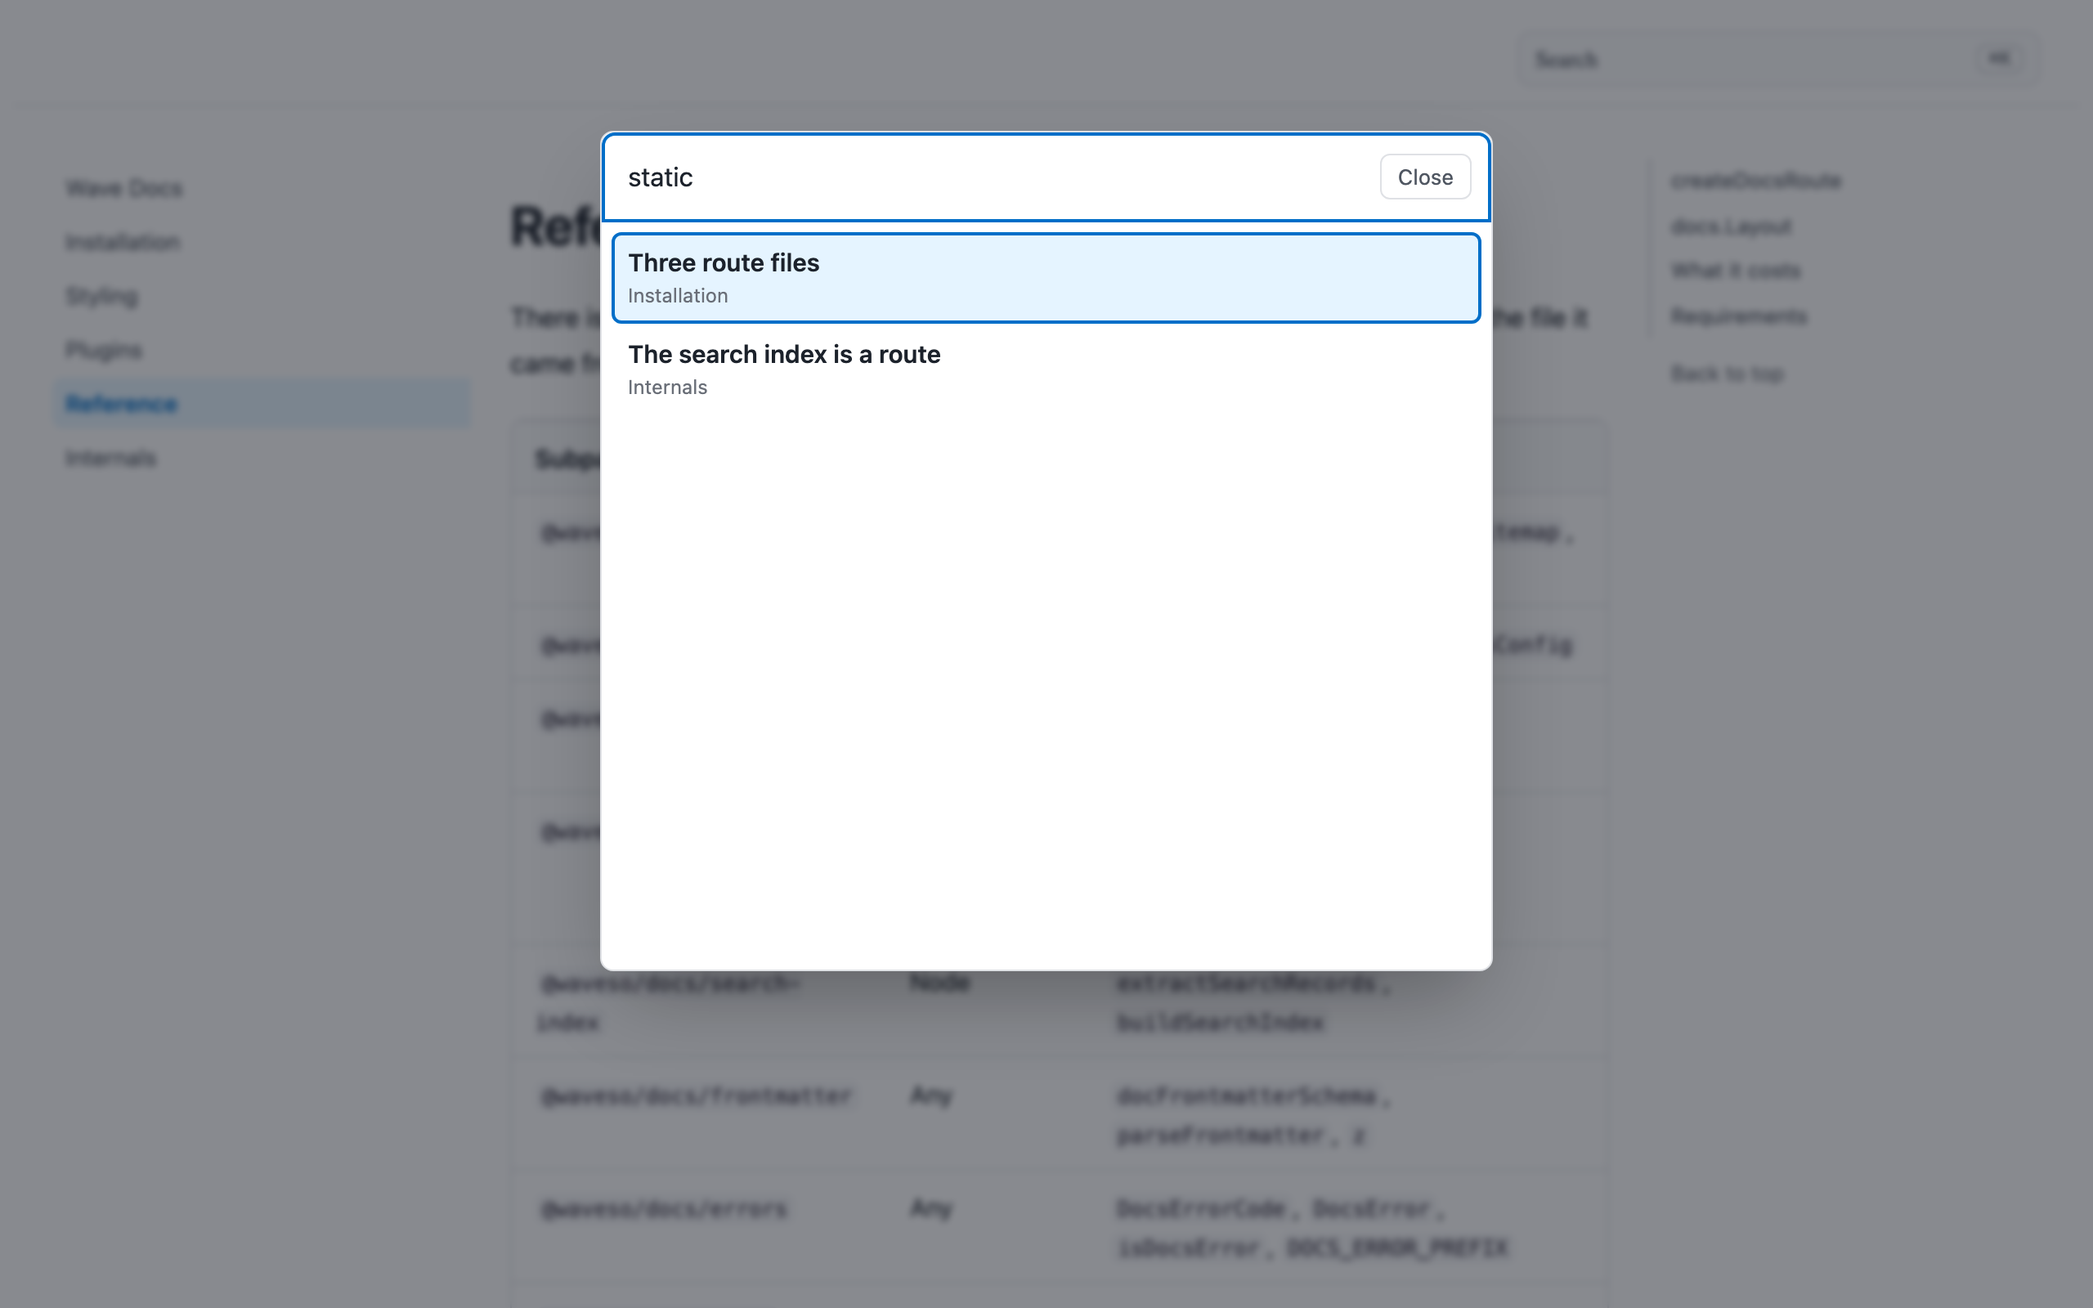
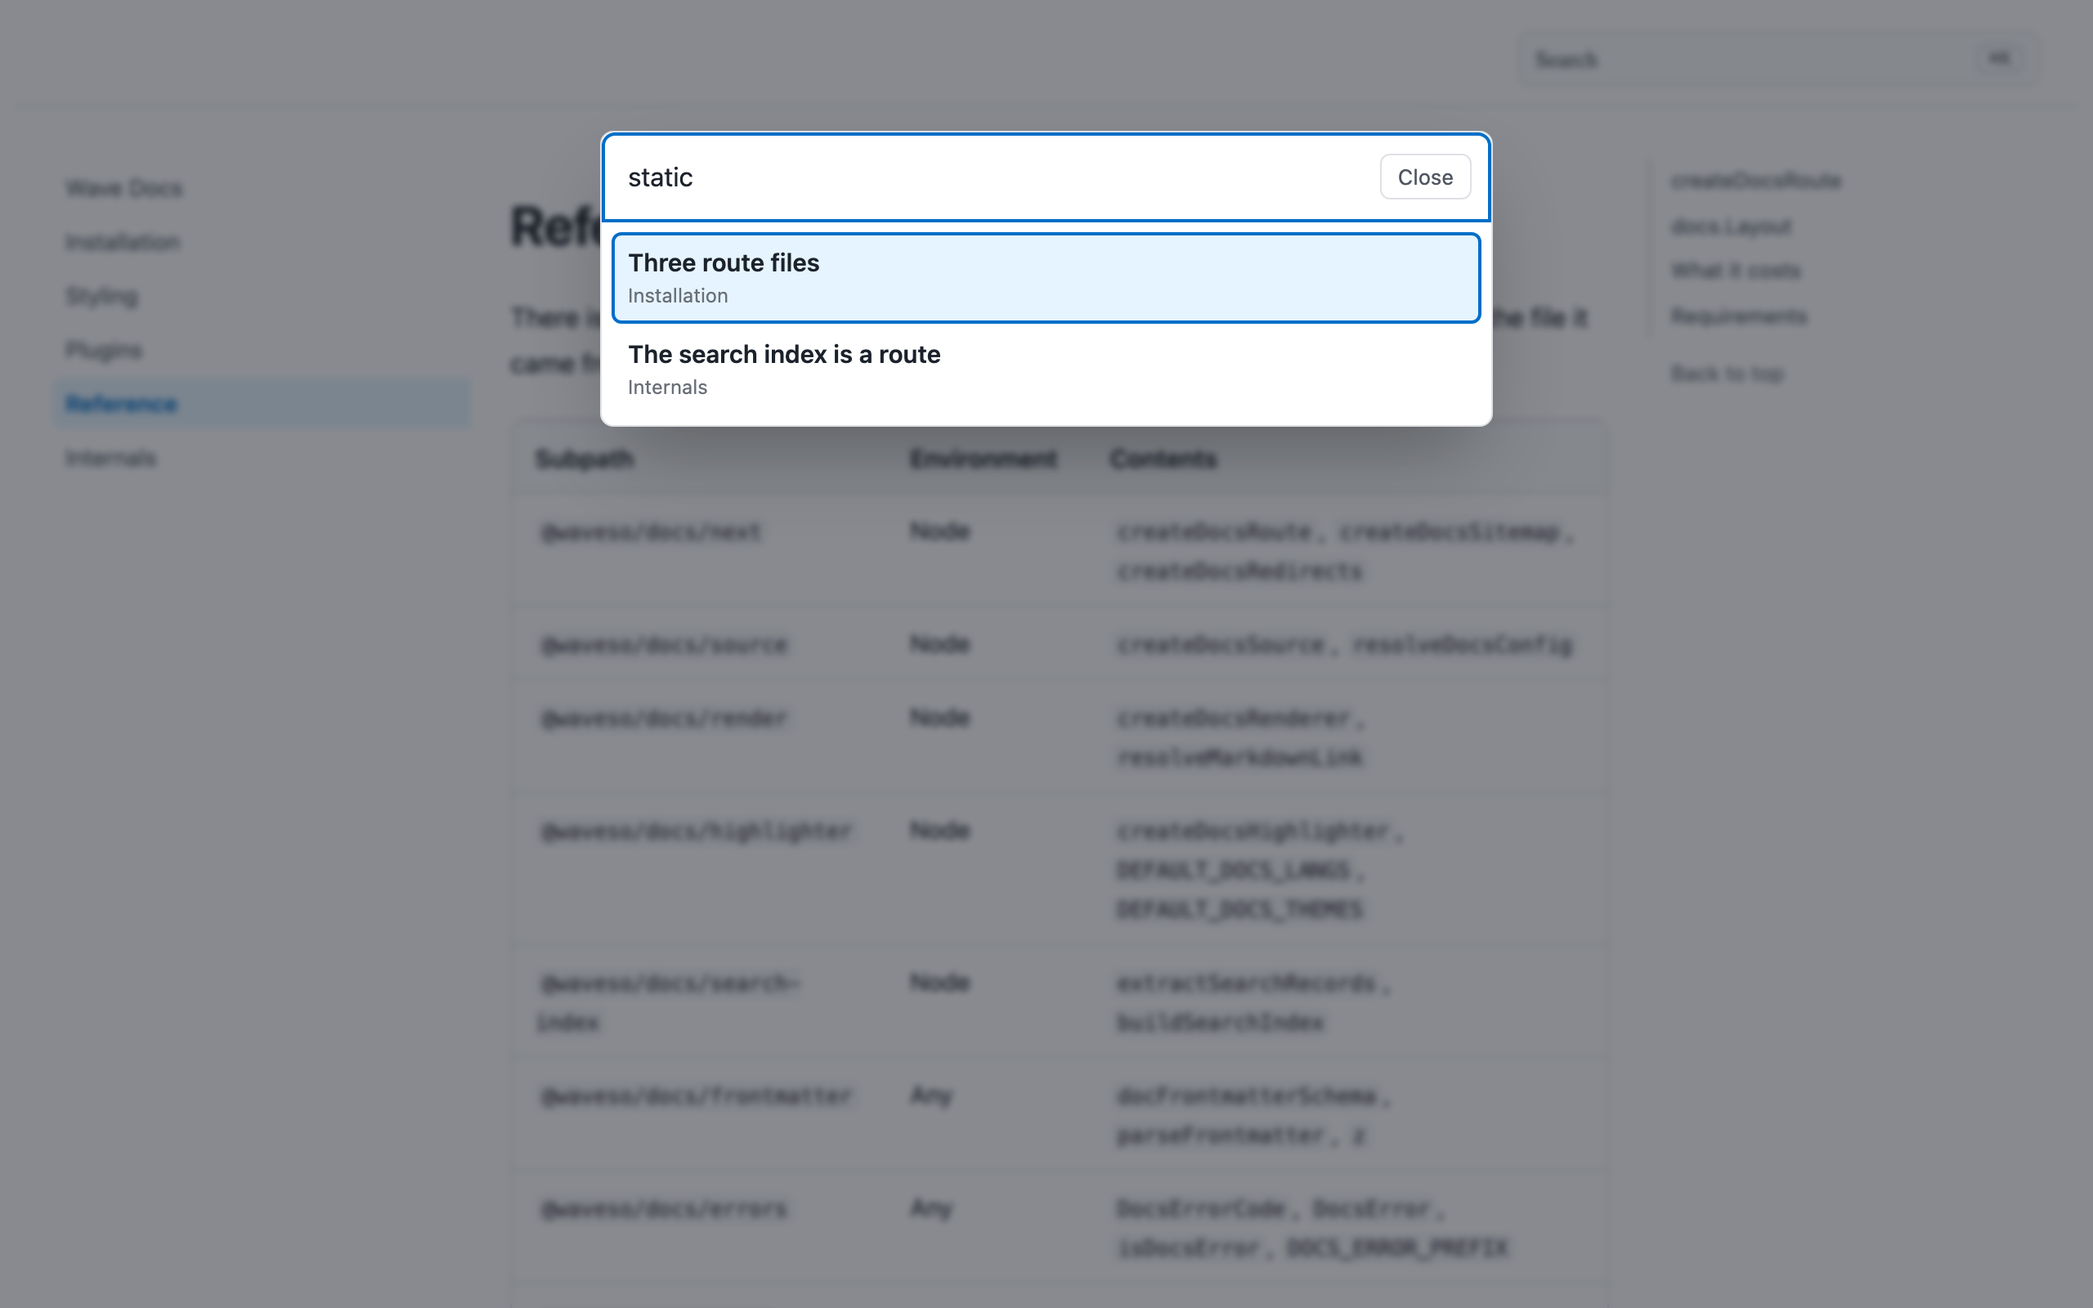
fix: the search dialog fits its results, and every row says where it lands
Both reported from looking at the real site.

**The dialog was 32rem tall in every state.** Measured: 514px with no
query, 514px with eight results, 514px with none — of which 392px was an
empty results area. The backdrop is a flex container and a flex container
defaults to `align-items: stretch`, so the dialog stretched to the
viewport and `max-height: min(32rem, 80dvh)` capped it at a constant
instead of being the ceiling it was written to be. `flex-start`, and it
is 122px empty, 125px with one hit, and 514px scrolling at the cap.

Invisible to everything: jsdom reports every box as zero, and
`styles.test.ts` reads the sheet as text — where `max-height` looks
exactly like a ceiling. The rule that broke it was the one not written
down.

**A page's own record had no second line.** Its heading IS the page
title with no ancestors, so a trail would repeat the line above it, and
the answer had been to render none. On a six-page site that is six of
twenty-nine records: the list came out ragged, and the barest rows said
the least — a row reading only "Wave Docs" tells a reader nothing about
what it opens. They carry the route now, which costs the index nothing
and is the one row where a path beats a title.

Writing the browser test also caught the test being wrong before the CSS
was: the first fixture put `role="option"` on the `<a>` rather than the
`<div>` around it, so forty rows sat inline and measured 243px, and the
[…]

Changed region(s): [[0.2812, 0.3125, 0.7188, 0.75]]

diff --git a/src/react/search.browser.test.tsx b/src/react/search.browser.test.tsx
@@ -1,0 +1,140 @@
+/**
+ * The search dialog's height, which is a claim only real layout can check.
+ *
+ * ⚠ IT WAS 514px IN EVERY STATE. `.wave-docs-search-backdrop` is a flex
+ * container, and a flex container defaults to `align-items: stretch` — so the
+ * dialog stretched to the full viewport and `max-height: min(32rem, 80dvh)`
+ * then capped it at a constant. Measured before the fix: 514px with no query,
+ * 514px with eight results, 514px with none, of which 392px was an empty
+ * results area. A reader opening search typed into a box floating at the top of
+ * a large blank rectangle.
+ *
+ * Nothing could see it. jsdom reports every box as zero, and `styles.test.ts`
+ * reads the sheet as text — where `max-height` looks exactly like the ceiling
+ * it was meant to be. The rule that broke it was the one that was not written
+ * down.
+ *
+ * The markup is written out rather than mounted through `SearchDialog`, which
+ * would need an index fetch and a router: the subject here is what the
+ * stylesheet does to a known shape, and the shape is frozen by
+ * `docs/adr/001-shell-contract.md`. `code.browser.test.tsx` does the same.
+ *
+ * Runs only under `pnpm test:browser`.
+ */
+
+import { page } from 'vitest/browser';
+import { beforeEach, describe, expect, it } from 'vitest';
+
+import styles from '../styles.css?inline';
+
+/**
+ * A result row, in the shape `SearchResultOption` actually emits.
+ *
+ * ⚠ THE `role="option"` IS ON THE `<div>`, AND THE `<a>` IS INSIDE IT. Written
+ * the other way round — an `<a role="option">` — the rows are inline, so forty
+ * of them wrap into a few lines and measure 243px instead of overflowing.
+ * That is how the first draft of this file "proved" the dialog never reached
+ * its ceiling: the fixture was wrong, not the stylesheet. Copied from the
+ * rendered DOM rather than from memory.
+ */
+function row(heading: string, crumb: string): string {
+  return `
+    <div class="wave-docs-search-result" role="option" aria-selected="false" tabindex="-1">
+      <a class="wave-docs-search-result-link" tabindex="-1" href="/docs/x">
+        <span class="wave-docs-search-result-heading">${heading}</span>
+        <span class="wave-docs-search-result-breadcrumb">
+          <span class="wave-docs-search-result-crumb">${crumb}</span>
+        </span>
+      </a>
+    </div>`;
+}
+
+/** The dialog, with `count` results and an optional status line. */
+function mount(count: number, status?: string): HTMLElement {
+  document.head.querySelector('#wave-docs-styles')?.remove();
+  const style = document.createElement('style');
+  style.id = 'wave-docs-styles';
+  style.textContent = styles;
+  document.head.append(style);
+
+  const rows = Array.from({ length: count }, (_, index) =>
+    row(`Result ${index}`, 'Installation'),
+  ).join('');
+
+  document.body.innerHTML = `
+    <div class="wave-docs-search-backdrop">
+      <div class="wave-docs-search-dialog" role="dialog" aria-modal="true">
+        <div class="wave-docs-search-input-row">
+          <input class="wave-docs-search-input" role="combobox" aria-expanded="true" />
+          <button type="button" class="wave-docs-search-close">Close</button>
+        </div>
+        <div class="wave-docs-search-results" role="listbox">${rows}</div>
+        ${status === undefined ? '' : `<p class="wave-docs-search-status">${status}</p>`}
+      </div>
+    </div>`;
+
+  const dialog = document.querySelector('.wave-docs-search-dialog');
+  if (!(dialog instanceof HTMLElement)) throw new Error('no dialog mounted');
+  return dialog;
+}
+
+const height = (element: HTMLElement): number =>
+  Math.round(element.getBoundingClientRect().height);
+
+beforeEach(async () => {
+  document.body.innerHTML = '';
+  await page.viewport(1280, 800);
+});
+
+describe('the search dialog sizes to its content', () => {
+  it('is little more than the input when there is nothing to show', () => {
+    const dialog = mount(0, 'Start typing to search the documentation.');
+
+    // A number, not "smaller than before": the failure mode was a *constant*,
+    // so the assertion has to be able to tell a constant from a measurement.
+    expect(height(dialog)).toBeLessThan(200);
+  });
+
+  it('grows with the results', () => {
+    // Like for like — all three without a status line. Comparing a
+    // results-only dialog against the empty state measures the status
+    // paragraph, not the growth, and the empty state is the taller of the two.
+    const one = height(mount(1));
+    const three = height(mount(3));
+    const six = height(mount(6));
+
+    expect(three).toBeGreaterThan(one);
+    expect(six).toBeGreaterThan(three);
+  });
+
+  it('stops growing at its ceiling, and scrolls from there', () => {
+    const dialog = mount(40);
+    const results = document.querySelector('.wave-docs-search-results');
+    if (!(results instanceof HTMLElement)) throw new Error('no results list');
+
+    // `min(32rem, 80dvh)` — 512px at this viewport, plus the 1px borders.
+    expect(height(dialog)).toBeLessThanOrEqual(514);
+    // And the overflow goes to the list rather than off the bottom of the box.
+    expect(results.scrollHeight).toBeGreaterThan(results.clientHeight);
+  });
+
+  it('keeps the empty-state message visible, not merely present', () => {
+    /*
+     * The risk in shrinking the dialog: collapsing it so far that "No results
+     * for …" ends up clipped by `overflow: hidden`. A message nobody can read
+     * is the same as no message, and this is the state a reader reaches by
+     * typing a typo — the moment they most need to be told what happened.
+     */
+    mount(0, 'No results for “zzzz”.');
+    const status = document.querySelector('.wave-docs-search-status');
+    if (!(status instanceof HTMLElement)) throw new Error('no status');
+
+    const box = status.getBoundingClientRect();
+    const dialogBox = (
+      document.querySelector('.wave-docs-search-dialog') as HTMLElement
+    ).getBoundingClientRect();
+
+    expect(box.height).toBeGreaterThan(0);
+    expect(box.bottom).toBeLessThanOrEqual(Math.ceil(dialogBox.bottom));
+  });
+});

diff --git a/src/react/search-dialog.test.tsx b/src/react/search-dialog.test.tsx
@@ -561,19 +561,53 @@ describe('SearchDialog', () => {
       expect(crumbs).toEqual(['Installation', '›Requirements']);
     });
 
-    it('gives a page’s lead hit no trail, which would only repeat it', async () => {
-      // `extractSearchRecords` emits one record per page whose heading *is* the
-      // page title, with no ancestors. Its trail is the string already printed
-      // above it: "Installation" over "Installation" reads as a rendering bug,
-      // and a screen reader announced the option twice over.
+    it('gives a page’s lead hit its route, not a repeat of its own title', async () => {
+      /*
+       * `extractSearchRecords` emits one record per page whose heading *is* the
+       * page title, with no ancestors. A trail built the ordinary way would be
+       * the string already printed above it — "Installation" over
+       * "Installation" reads as a rendering bug, and announced the option
+       * twice over.
+       *
+       * ⚠ THE ANSWER USED TO BE "NO TRAIL", AND THAT WAS ITS OWN DEFECT. Six
+       * of a six-page site's twenty-nine records are lead records, so a search
+       * showed a list where some rows had two lines and some had one — and the
+       * one-line rows were the ones saying least. A row reading only "Wave
+       * Docs" tells a reader nothing about what it opens.
+       *
+       * The route answers exactly that, costs the index nothing (`href` is
+       * stored already), and is the one row where a path beats a title: the
+       * reader is being offered the top of a page rather than a place inside
+       * one.
+       */
       const { user, trigger } = renderDialog();
       await search(user, trigger, 'install');
 
-      const lead = screen.getByRole('option', { name: 'Installation' });
-      expect(
-        lead.querySelectorAll('.wave-docs-search-result-crumb'),
-      ).toHaveLength(0);
-      expect(lead).toHaveTextContent(/^Installation$/);
+      const lead = screen.getByRole('option', {
+        name: 'Installation, /docs/guide/install',
+      });
+      const crumbs = [
+        ...lead.querySelectorAll('.wave-docs-search-result-crumb'),
+      ].map((crumb) => crumb.textContent);
+
+      expect(crumbs).toEqual(['/docs/guide/install']);
+    });
+
+    it('gives every row a second line, so the list is not ragged', async () => {
+      // The property behind the test above, stated as the invariant: whatever
+      // a row is, it says where it lives. A mixture of one- and two-line rows
+      // is what made the bare ones look broken rather than merely brief.
+      const { user, trigger } = renderDialog();
+      await search(user, trigger, 'install');
+
+      const options = screen.getAllByRole('option');
+      expect(options.length).toBeGreaterThan(1);
+
+      for (const option of options) {
+        expect(
+          option.querySelectorAll('.wave-docs-search-result-crumb').length,
+        ).toBeGreaterThan(0);
+      }
     });
 
     it('caps the list at maxResults', async () => {

diff --git a/src/react/search-dialog.tsx b/src/react/search-dialog.tsx
@@ -756,16 +756,34 @@ function isSearchHit(hit: SearchHit | undefined): hit is SearchHit {
 }
 
 /**
- * Page title first, then the ancestor headings: `ancestors` deliberately excludes
- * the page title so the index does not carry it twice.
+ * The second line of a result: where the thing on the first line lives.
+ *
+ * For a section hit that is the page, then any enclosing headings — `ancestors`
+ * deliberately excludes the page title so the index does not carry it twice.
+ *
+ * ## The page's own record
  *
  * A page's lead record carries `heading === title` and no ancestors (see
- * `extractSearchRecords`), so its trail would be the one string already printed
- * above it. "Installation" over "Installation" is not a path, it is a bug that
- * reads as a rendering glitch — such a hit gets no trail at all.
+ * `extractSearchRecords`), so a trail built the same way would repeat the one
+ * string already printed above it. "Installation" over "Installation" is not a
+ * path, it is a rendering glitch.
+ *
+ * ⚠ THE ANSWER TO THAT WAS "NO SECOND LINE", AND IT WAS WRONG. Six of this
+ * site's twenty-nine records are lead records, so a search showed a list where
+ * some rows had two lines and some had one — ragged, and worse, the bare rows
+ * were the ones that said least: a row reading only "Wave Docs" gives a reader
+ * no idea what it opens.
+ *
+ * So a lead record gets the route instead. It is the honest answer to the
+ * question the second line is asking, it costs the index nothing (`href` is
+ * already stored), and it is the one row where a path is genuinely more useful
+ * than a title — the reader is being offered the top of a page rather than a
+ * place inside one.
  */
 function toBreadcrumbs(hit: SearchHit): Array<{ key: string; text: string }> {
-  if (hit.ancestors.length === 0 && hit.heading === hit.title) return [];
+  if (hit.ancestors.length === 0 && hit.heading === hit.title) {
+    return [{ key: hit.href, text: hit.href }];
+  }
 
   let trail = '';
   return [hit.title, ...hit.ancestors].map((text) => {

diff --git a/src/styles.css b/src/styles.css
@@ -1844,6 +1844,19 @@
     z-index: 50;
     display: flex;
     justify-content: center;
+    /*
+     * ⚠ `flex-start`, OR THE DIALOG IS ALWAYS 32rem TALL. A flex container
+     * defaults to `align-items: stretch`, so the dialog stretched to the full
+     * viewport height and `max-height` then capped it — at a constant. Measured
+     * before this line: 514px with no query, 514px with eight results, 514px
+     * with none, of which 392px was an empty results area. The reader typed
+     * into a box floating at the top of a large blank rectangle.
+     *
+     * Aligned to the start, the dialog is as tall as its content and the
+     * `max-height` below goes back to being what it says it is — a ceiling
+     * where the list starts scrolling, not a height.
+     */
+    align-items: flex-start;
     /* Not centred: a dialog that grows downward from a fixed top does not
      * shift under the reader as results stream in. */
     /* `dvh`, not `vh`: on a phone `vh` is the viewport with the URL bar
@@ -1930,10 +1943,27 @@
     border-color: var(--wave-docs-border-strong);
   }
 
+  /*
+   * `1 1 auto` and not `0 1 auto`: once the dialog hits its `max-height` this
+   * is the part that must take the remaining space and scroll, rather than the
+   * list overflowing a box sized to the input. With the dialog content-sized
+   * there is no free space to grow into, so it only bites at the ceiling —
+   * which is exactly when it should.
+   */
   .wave-docs-search-results {
     flex: 1 1 auto;
     overflow-y: auto;
     padding: 0.375rem;
+  }
+
+  /*
+   * An empty results container has no padding to contribute. Without this it
+   * adds 12px of nothing under the input on every keystroke that matches
+   * nothing — small, and precisely the sort of gap that reads as a broken
+   * layout rather than as an empty state.
+   */
+  .wave-docs-search-results:empty {
+    display: none;
   }
 
   .wave-docs-search-result {

diff --git a/.changeset/wild-moons-shake.md b/.changeset/wild-moons-shake.md
@@ -40,6 +40,10 @@ createDocsRoute({
 
 **The shell is translatable.** `docs.Layout` takes a `labels` object with the four strings it renders itself — the navigation landmark's name, the drawer's open and close buttons, the skip link — each falling back on its own, so a partial map is not a half-English shell. `DocsNav` had declared `label` and `closeLabel` props, documented them and defaulted them, while the layout that is the only thing rendering it passed neither and `DocsLayoutProps` had no way to say them: configuration that could not be configured.
 
+**The search dialog sizes to its results.** It was 32rem tall in every state — measured 514px with no query, 514px with eight results, 514px with none, of which 392px was an empty results area, so a reader typed into a box floating at the top of a large blank rectangle. A flex container defaults to `align-items: stretch`, so the dialog stretched to the viewport and `max-height` capped it at a constant rather than acting as the ceiling it was written to be. It is content-height now and starts scrolling at the same 32rem.
+
+**Every result row says where it goes.** A page's own record carries `heading === title` and no ancestors, and rendering its trail would have repeated the line above it — so it got no second line at all. On a six-page site that is six of twenty-nine records, which made the list ragged and left the barest rows saying the least: a row reading only "Wave Docs" told a reader nothing about what it opened. Those rows carry the route now, which costs the index nothing and is the one place a path beats a title.
+
 **Two rendering defects that only a screenshot could find.** A code frame's title bar drops its bottom border to join the code below it, and a `<pre>`'s user-agent margin then pushed the two 14px apart — a caption hovering over a gap, and a copy button mis-seated on untitled fences. And the shell painted its own containers but not the grid between them, so in dark mode the sidebar and the table of contents rendered as lighter panels floating on a darker page; light mode hid it because both were white. Both are fixed, both are now pinned by browser tests, and the README carries screenshots taken from a real build so the next one is visible in review.
 
 **Smaller repairs a reader would notice.** The video facade asks the player to start, so watching a video is one click rather than two — it is still not an autoplaying embed, because the iframe does not exist until the `<details>` opens. A failed copy now *looks* failed: `data-copied="false"` was written from the beginning and had no rule in the stylesheet, so a screen-reader user was told and a sighted user watched a button do nothing, on the ordinary path of `next dev` opened from a phone over http. The table's horizontal-scroll shadow was hardcoded black and therefore invisible in dark mode. An excluded fence had no `tabindex`, making it the one code block on a page a keyboard could not scroll sideways.
